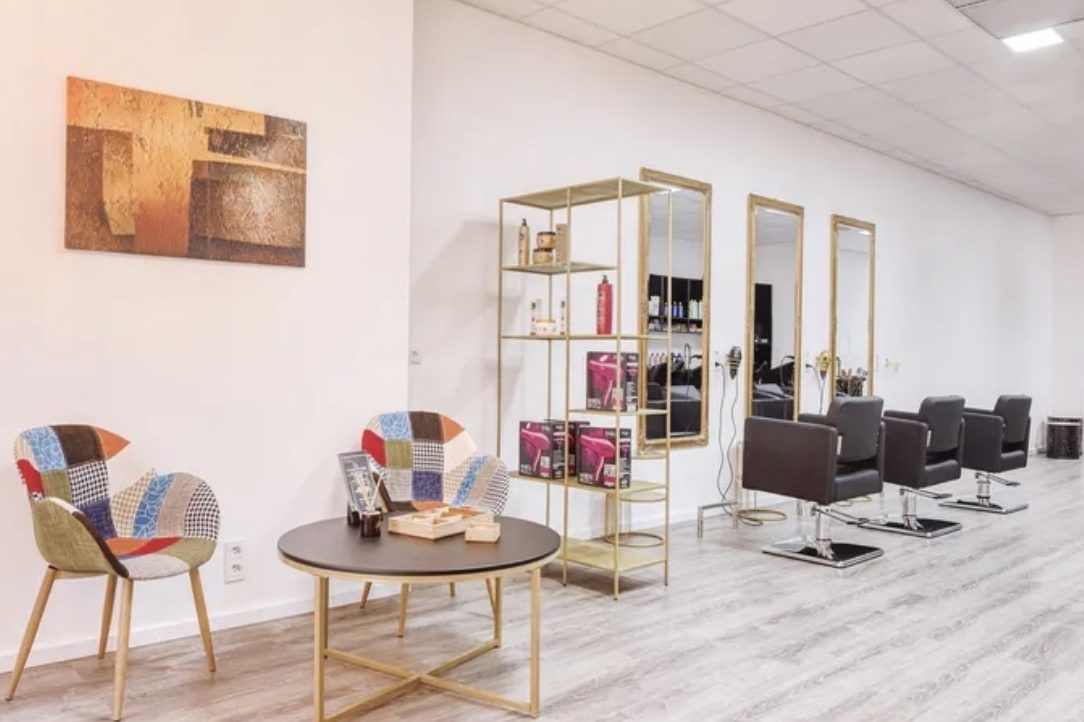
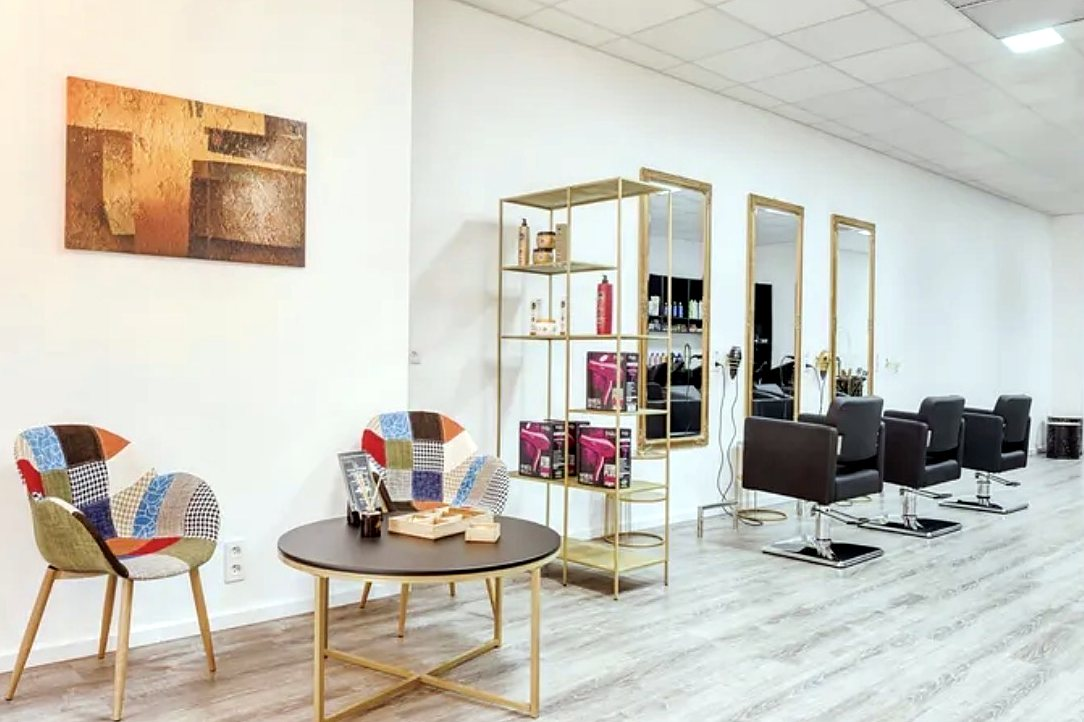
Nouvelles photos du salon (façade, bacs, outils) retouchées
Suppression de la photo basse résolution, façade dans le bandeau avec
encadré crème, intérieur du salon en accueil.

Claude-Session: https://claude.ai/code/session_01N1gZtHmd32ZnniaE5HZXHX

diff --git a/salon-coiffure/index.html b/salon-coiffure/index.html
@@ -31,7 +31,7 @@
 <meta property="og:type" content="website">
 <meta property="og:title" content="L’Enseigne du Lissage – Coiffeur Metz">
 <meta property="og:description" content="Le salon dédié au lissage à Metz, 55 rue Serpenoise.">
-<meta property="og:image" content="https://www.votresalon.fr/images/photo-salon.jpg">
+<meta property="og:image" content="https://www.votresalon.fr/images/photo-facade.jpg">
 <meta property="og:locale" content="fr_FR">
 
 <!-- ===== Polices Google Fonts ===== -->
@@ -48,7 +48,7 @@
   "@context": "https://schema.org",
   "@type": "HairSalon",
   "name": "L’Enseigne du Lissage",
-  "image": "https://www.votresalon.fr/images/photo-salon.jpg",
+  "image": "https://www.votresalon.fr/images/photo-facade.jpg",
   "url": "https://www.votresalon.fr/",
   "telephone": "+33387798848",
   "priceRange": "€€",
@@ -355,18 +355,25 @@ section { padding-block: var(--section); }
 /* =====================================================================
    10. BANDEAU PLEINE LARGEUR
    ===================================================================== */
-.bandeau {
-  position: relative; overflow: hidden;
-  min-height: 78vh; display: grid; place-items: center; text-align: center;
-  color: var(--creme); background: var(--brun);
+/* Mobile : la photo de la façade, puis l'encadré crème qui la chevauche */
+.bandeau { position: relative; background: var(--creme); padding: 0 0 var(--section); }
+.bandeau .photo { aspect-ratio: 4 / 3; }
+.bandeau .photo img { object-position: 40% center; }
+.bandeau__carte {
+  position: relative; z-index: 2;
+  width: min(100% - 2 * var(--gouttiere), 560px); margin: -70px auto 0;
+  padding: 48px 30px 40px; text-align: center;
+  background: var(--creme); border-radius: 999px 999px 4px 4px / 180px 180px 4px 4px;
 }
-.bandeau .photo { position: absolute; inset: 0; background: var(--brun); }
-.bandeau .photo img { object-position: center 30%; }
-.bandeau .photo::after { content: ""; position: absolute; inset: 0; z-index: 2; background: rgba(40,31,26,.5); }
-.bandeau .container { position: relative; z-index: 2; max-width: 760px; }
-.bandeau .eyebrow { color: var(--sable); }
-.bandeau h2 em { color: var(--sable); }
-.bandeau p { font-size: 1.15rem; margin-inline: auto; max-width: 46ch; margin-bottom: 2em; }
+.bandeau__carte p { margin-inline: auto; max-width: 42ch; margin-bottom: 1.8em; color: var(--brun-doux); }
+/* Ordinateur : grande photo plein écran, encadré en bas à gauche (l'enseigne reste visible) */
+@media (min-width: 900px) {
+  .bandeau { min-height: 88vh; padding: 0; display: flex; align-items: flex-end; justify-content: flex-start; }
+  .bandeau .photo { position: absolute; inset: 0; aspect-ratio: auto; }
+  .bandeau .photo img { object-position: center 30%; }
+  .bandeau__carte { width: 440px; margin: 0 0 6vh 5vw; padding: 50px 40px 40px; }
+  .bandeau__carte h2 { font-size: 3.4rem; }
+}
 
 /* =====================================================================
    11. AVIS CLIENTES
@@ -559,7 +566,7 @@ dialog p { font-size: .95rem; }
 <section class="hero" id="accueil" aria-label="Accueil">
   <div class="hero__photo">
     <!-- PHOTO : images/photo-salon.jpg (intérieur du salon, format paysage) -->
-    <img src="images/photo-salon.jpg" alt="Intérieur lumineux du salon L’Enseigne du Lissage à Metz : miroirs dorés, fauteuils de coiffure et coin d'attente" fetchpriority="high">
+    <img src="images/photo-salon.jpg" alt="Intérieur lumineux du salon L’Enseigne du Lissage à Metz : miroirs dorés, fauteuils de coiffure et coin d’attente" fetchpriority="high" width="1084" height="722">
   </div>
   <div class="container">
     <p class="eyebrow reveal">Salon de coiffure · Metz</p>
@@ -630,7 +637,7 @@ dialog p { font-size: .95rem; }
       <article class="service reveal" data-delai="1">
         <!-- PHOTO : images/photo-soins.jpg -->
         <div class="photo arche" data-nom="photo-soins.jpg">
-          <img src="images/photo-soins.jpg" alt="Bacs à shampoing et produits de soin professionnels du salon" loading="lazy" width="773" height="460">
+          <img src="images/photo-soins.jpg" alt="Bacs à shampoing et produits de soin professionnels du salon" loading="lazy" width="1600" height="974">
         </div>
         <span class="service__num">02</span>
         <h3>Soins</h3>
@@ -639,9 +646,9 @@ dialog p { font-size: .95rem; }
       </article>
 
       <article class="service reveal" data-delai="2">
-        <!-- PHOTO : images/photo-coupe.jpg (petite image : à remplacer par une plus grande) -->
+        <!-- PHOTO : images/photo-coupe.jpg -->
         <div class="photo arche" data-nom="photo-coupe.jpg">
-          <img src="images/photo-coupe.jpg" alt="Ciseaux, peignes et brosse de coiffure posés sur une table claire" loading="lazy" width="236" height="420">
+          <img src="images/photo-coupe.jpg" alt="Ciseaux, peignes, brosse ronde et vaporisateur de coiffure" loading="lazy" width="1080" height="1350">
         </div>
         <span class="service__num">03</span>
         <h3>Couleurs &amp; brushings</h3>
@@ -656,15 +663,15 @@ dialog p { font-size: .95rem; }
      4. BANDEAU PLEINE LARGEUR
      ================================================================ -->
 <section class="bandeau" aria-label="Prenez soin de vos cheveux">
-  <!-- PHOTO : images/photo-salon-miroirs.jpg (grand format paysage) -->
+  <!-- PHOTO : images/photo-facade.jpg (devanture du salon, grand format paysage) -->
   <div class="photo">
-    <img src="images/photo-salon-miroirs.jpg" alt="Postes de coiffage du salon avec grands miroirs dorés" loading="lazy">
+    <img src="images/photo-facade.jpg" alt="Devanture du salon L’Enseigne du Lissage, 55 rue Serpenoise à Metz" loading="lazy" width="1600" height="965">
   </div>
-  <div class="container">
-    <p class="eyebrow reveal">Un moment pour vous</p>
-    <h2 class="reveal">Prenez soin de <em>vos cheveux</em></h2>
-    <p class="reveal">Après votre lissage, on vous explique comment le faire durer : shampoing adapté, gestes à éviter, soins à la maison.</p>
-    <a href="#reserver" class="btn btn--light reveal" data-reservation>Réserver mon moment</a>
+  <div class="bandeau__carte reveal">
+    <p class="eyebrow">55 rue Serpenoise · Metz</p>
+    <h2>Prenez soin de <em>vos cheveux</em></h2>
+    <p>À deux pas de la place de la République. Après votre lissage, on vous explique comment le faire durer : shampoing adapté, gestes à éviter, soins à la maison.</p>
+    <a href="#reserver" class="btn" data-reservation>Réserver mon moment</a>
   </div>
 </section>
 
